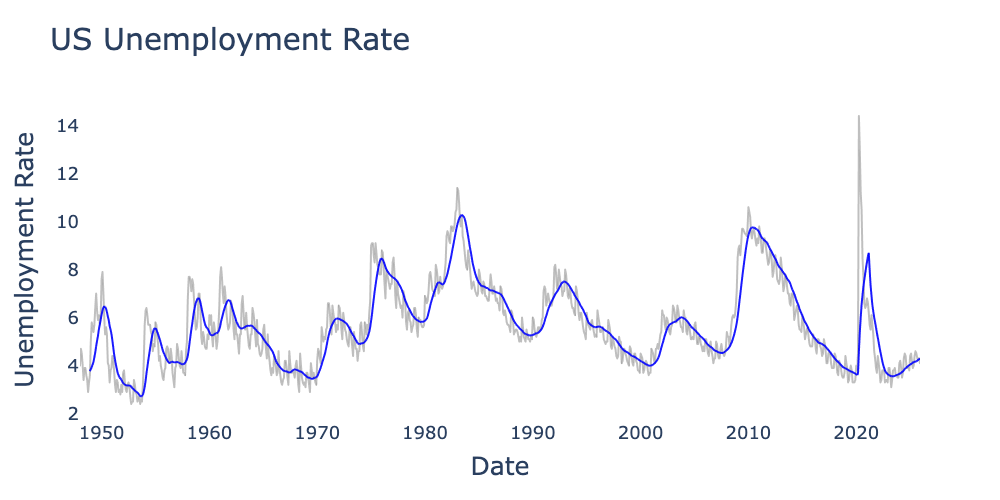
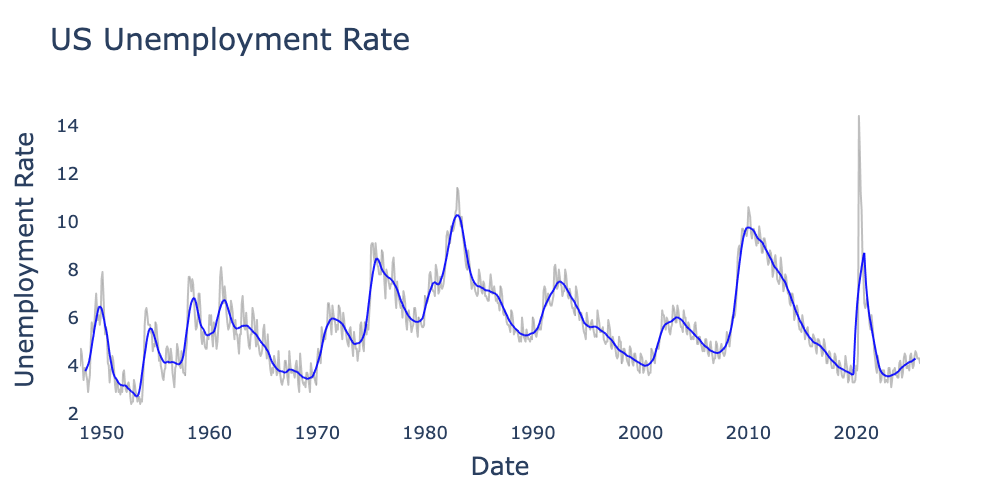
Change to centered moving average

diff --git a/chapter_4_enforcing_stationarity/04_seasonality.md b/chapter_4_enforcing_stationarity/04_seasonality.md
@@ -113,7 +113,7 @@ The first approach is arguably also the most intuitive, namely taking a *moving 
 Would using a 48-hour window remove daily seasonality? What about a 36-hour window?
 
 :::{dropdown} Click to reveal solution
-**Solution:** The key element is to have the same number of each season (hours of the day, in our example) for each averaged season. Every single 48-hour window will have two midnights, two 11 AMs, etc. Therefore, 24 or any multiple thereof will smooth out seasonal effects. In contrast, a 36-hour window beginning in the morning will have two days but only one night, while one starting in the evening will have two nights but only one day. Consequently, a 36-hour window—or any window that is not a multiple of 24—will not compensate correctly for seasonal effects.
+**Solution:** The key element is to have the same number of each season (hours of the day, in our example) for each averaged season. Every single 48-hour window will have two midnights, two 11 AMs, etc. Therefore, 24 or any integer multiple thereof will smooth out seasonal effects. In contrast, a 36-hour window beginning in the morning will have two days but only one night, while one starting in the evening will have two nights but only one day. Consequently, a 36-hour window—or any window that is not a multiple of 24—will not compensate correctly for seasonal effects.
 :::
 ::::
 
@@ -122,7 +122,7 @@ Would using a 48-hour window remove daily seasonality? What about a 36-hour wind
 width: 95%
 name: unemployment-rolling
 ---
-US employment rate from 1948 through 2025 from the [Federal Reserve Bank of St. Louis](https://fred.stlouisfed.org/series/UNRATENSA) with raw data (gray) and a 12-month moving average (blue).
+US employment rate from 1948 through 2025 from the [Federal Reserve Bank of St. Louis](https://fred.stlouisfed.org/series/UNRATENSA) with raw data (gray) and a centered 12-month moving average (blue).
 :::
  
 ### Seasonal Adjustment
